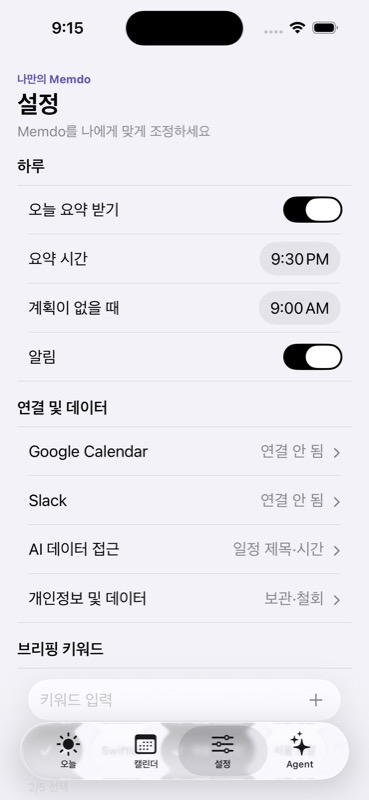
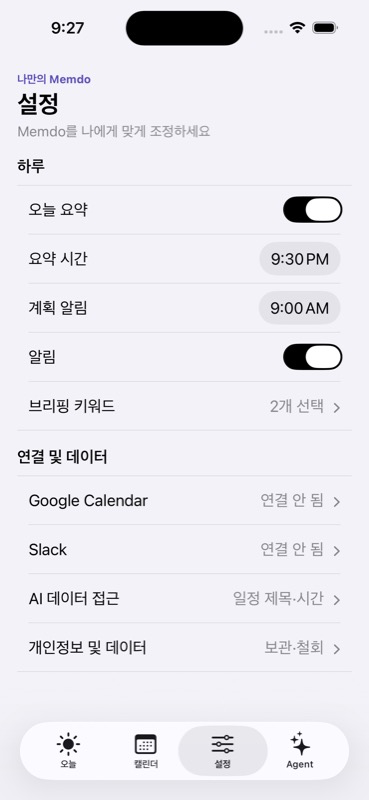
docs: record progressive settings disclosure

diff --git a/docs/29-ui-grid-and-modal-audit.md b/docs/29-ui-grid-and-modal-audit.md
@@ -52,6 +52,7 @@
 | 날짜별 일정 | 날짜 길게 누르기 | medium + large, 상단 +로 스크롤 없이 새 일정 진입 가능 |
 | 검색 | 캘린더 검색 | 아이콘형 Glass 진입·검색 필드·segmented 범위가 페이지 축 유지, 결과 헤더에 필터 통합 |
 | 검색 필터 | 검색 결과 필터 | medium, 단일 완료 동작 유지 |
+| 브리핑 키워드 | 설정 | medium/large, 직접 입력·최대 5개 선택·완료 |
 | Google Calendar | 설정 | large, 권한 원칙과 연결 CTA 동시 확인 |
 | Slack | 설정 | large, 실제 MVP 범위·권한·금지 동작 확인 |
 | AI 데이터 접근 | 설정 | large, 보는 정보·보지 않는 정보·실행 원칙 확인 |
